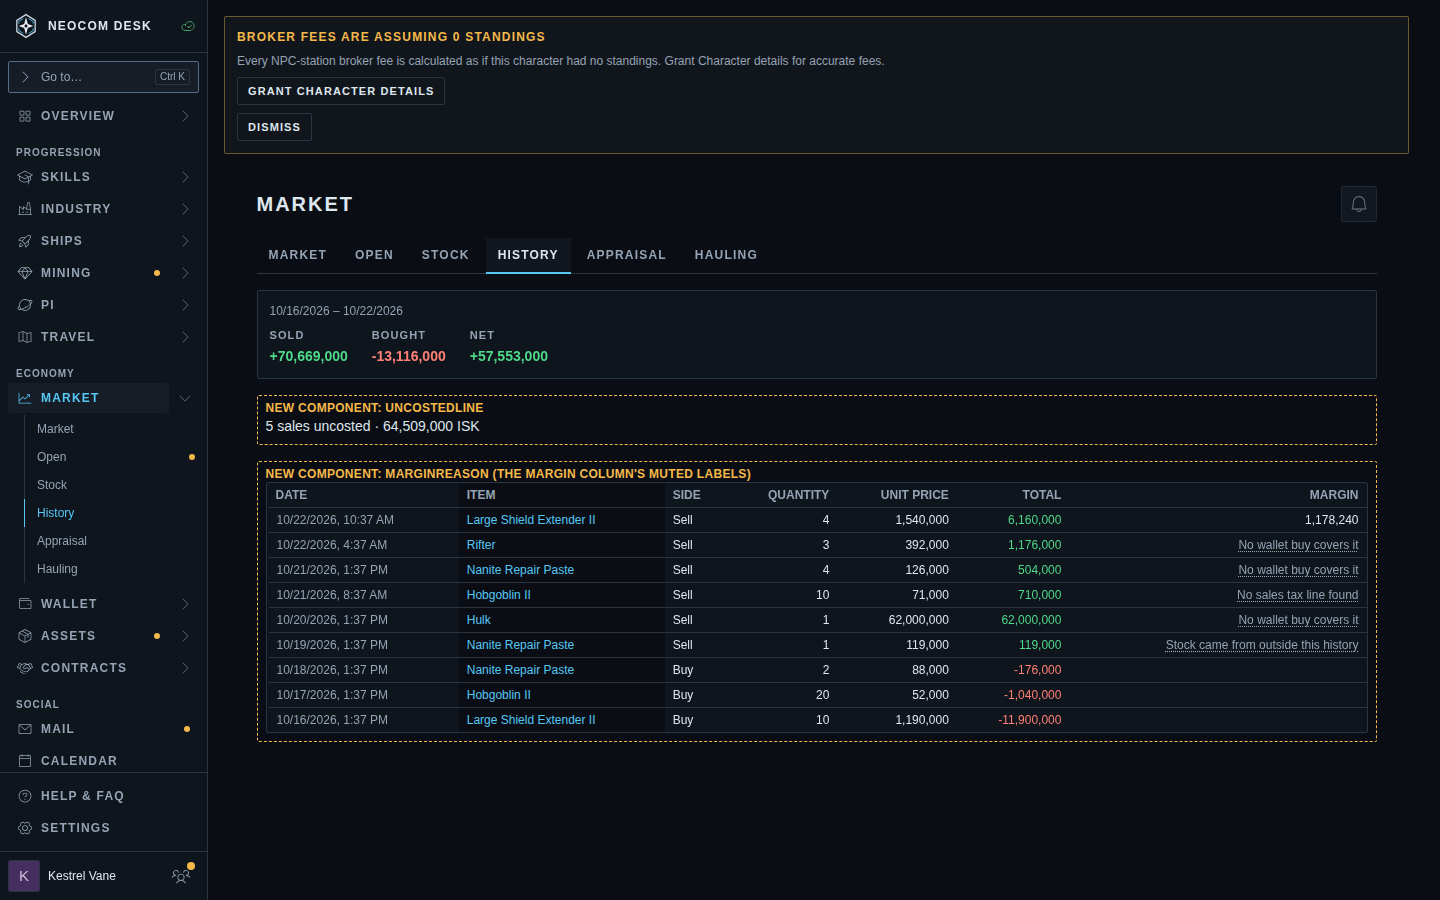
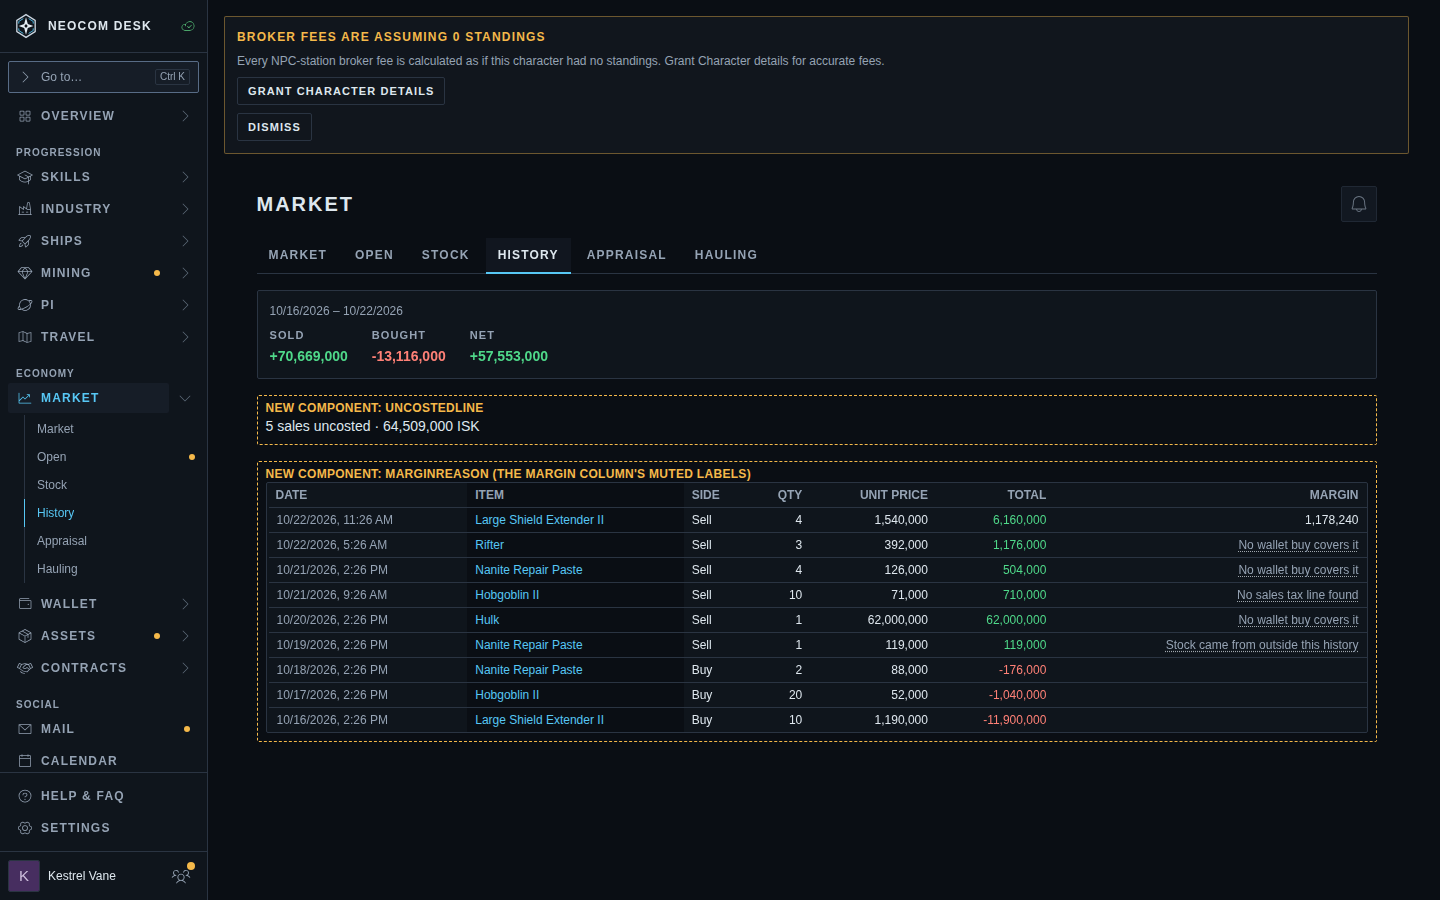
docs(mockups): stack Transactions date over time on phone (#4736)

diff --git a/src/mockups/TransactionMarginReason.stories.tsx b/src/mockups/TransactionMarginReason.stories.tsx
@@ -2,7 +2,7 @@ import type { Meta, StoryObj } from '@storybook/react-vite';
 import { Route, Routes } from 'react-router-dom';
 import { DataTable, PageHeader, Panel, Tabs, type DataTableColumn } from '@/components/ui';
 import { ItemInfoLink } from '@/features/entities';
-import { formatTimestamp } from '@/lib/timestamp';
+import { splitTimestamp } from '@/lib/timestamp';
 import { useTimeZone } from '@/lib/timeFormat';
 import { HintText } from '@/components/ui/HintText';
 import type { WalletJournalEntry, WalletTransaction } from '@/esi/endpoints';
@@ -173,8 +173,20 @@ function ProposedTable() {
     {
       id: 'date',
       header: 'Date',
-      className: 'whitespace-nowrap text-text-dim',
-      render: (t) => formatTimestamp(new Date(t.date), timeZone),
+      className: 'whitespace-nowrap text-text-dim max-sm:px-1',
+      headerClassName: 'max-sm:px-1',
+      // Date over time on a phone, as the Wallet journal does; one line from `sm` up.
+      render: (t) => {
+        const { date, time } = splitTimestamp(new Date(t.date), timeZone);
+        const body = date.trimEnd();
+        return (
+          <>
+            <span className="max-sm:block">{body}</span>
+            <span className="max-sm:hidden">{date.slice(body.length)}</span>
+            {time && <span className="max-sm:block">{time}</span>}
+          </>
+        );
+      },
     },
     {
       id: 'item',
@@ -190,23 +202,26 @@ function ProposedTable() {
     },
     {
       id: 'qty',
-      header: 'Quantity',
+      header: 'Qty',
       align: 'right',
-      className: 'tabular-nums',
+      className: 'tabular-nums max-sm:px-1',
+      headerClassName: 'max-sm:px-1',
       render: (t) => t.quantity,
     },
     {
       id: 'unit',
       header: 'Unit price',
       align: 'right',
-      className: 'tabular-nums',
+      className: 'tabular-nums max-sm:px-1',
+      headerClassName: 'max-sm:px-1',
       render: (t) => formatMarketIsk(t.unit_price),
     },
     {
       id: 'total',
       header: 'Total',
       align: 'right',
-      className: 'tabular-nums',
+      className: 'tabular-nums max-sm:px-1',
+      headerClassName: 'max-sm:px-1',
       cellClassName: (t) => (t.is_buy ? 'text-isk-neg' : 'text-isk-pos'),
       render: (t) => formatMarketIsk((t.is_buy ? -1 : 1) * t.quantity * t.unit_price),
     },

diff --git a/docs/design/mockups/margin-reason/README.md b/docs/design/mockups/margin-reason/README.md
@@ -20,3 +20,5 @@ Sample sales and the reason each gets (same rules as the realized-margin engine)
 - Hobgoblin II (covered, tax line missing): "No sales tax line found".
 
 Phone: the Margin column is desktop-only today (`phoneHidden`), so the phone shows no reasons. Only the "5 sales uncosted · 64,509,000 ISK" line is new there. Say so in review if you want reasons on the phone too.
+
+Phone date: the Date cell stacks date over time below `sm`, one line from `sm` up, with tighter column padding, so the table fits 390px. This is the Wallet journal's existing pattern (`splitTimestamp`), no new component. Today's table lets the date push the other columns off screen; the ticket should apply this to the real table too.
